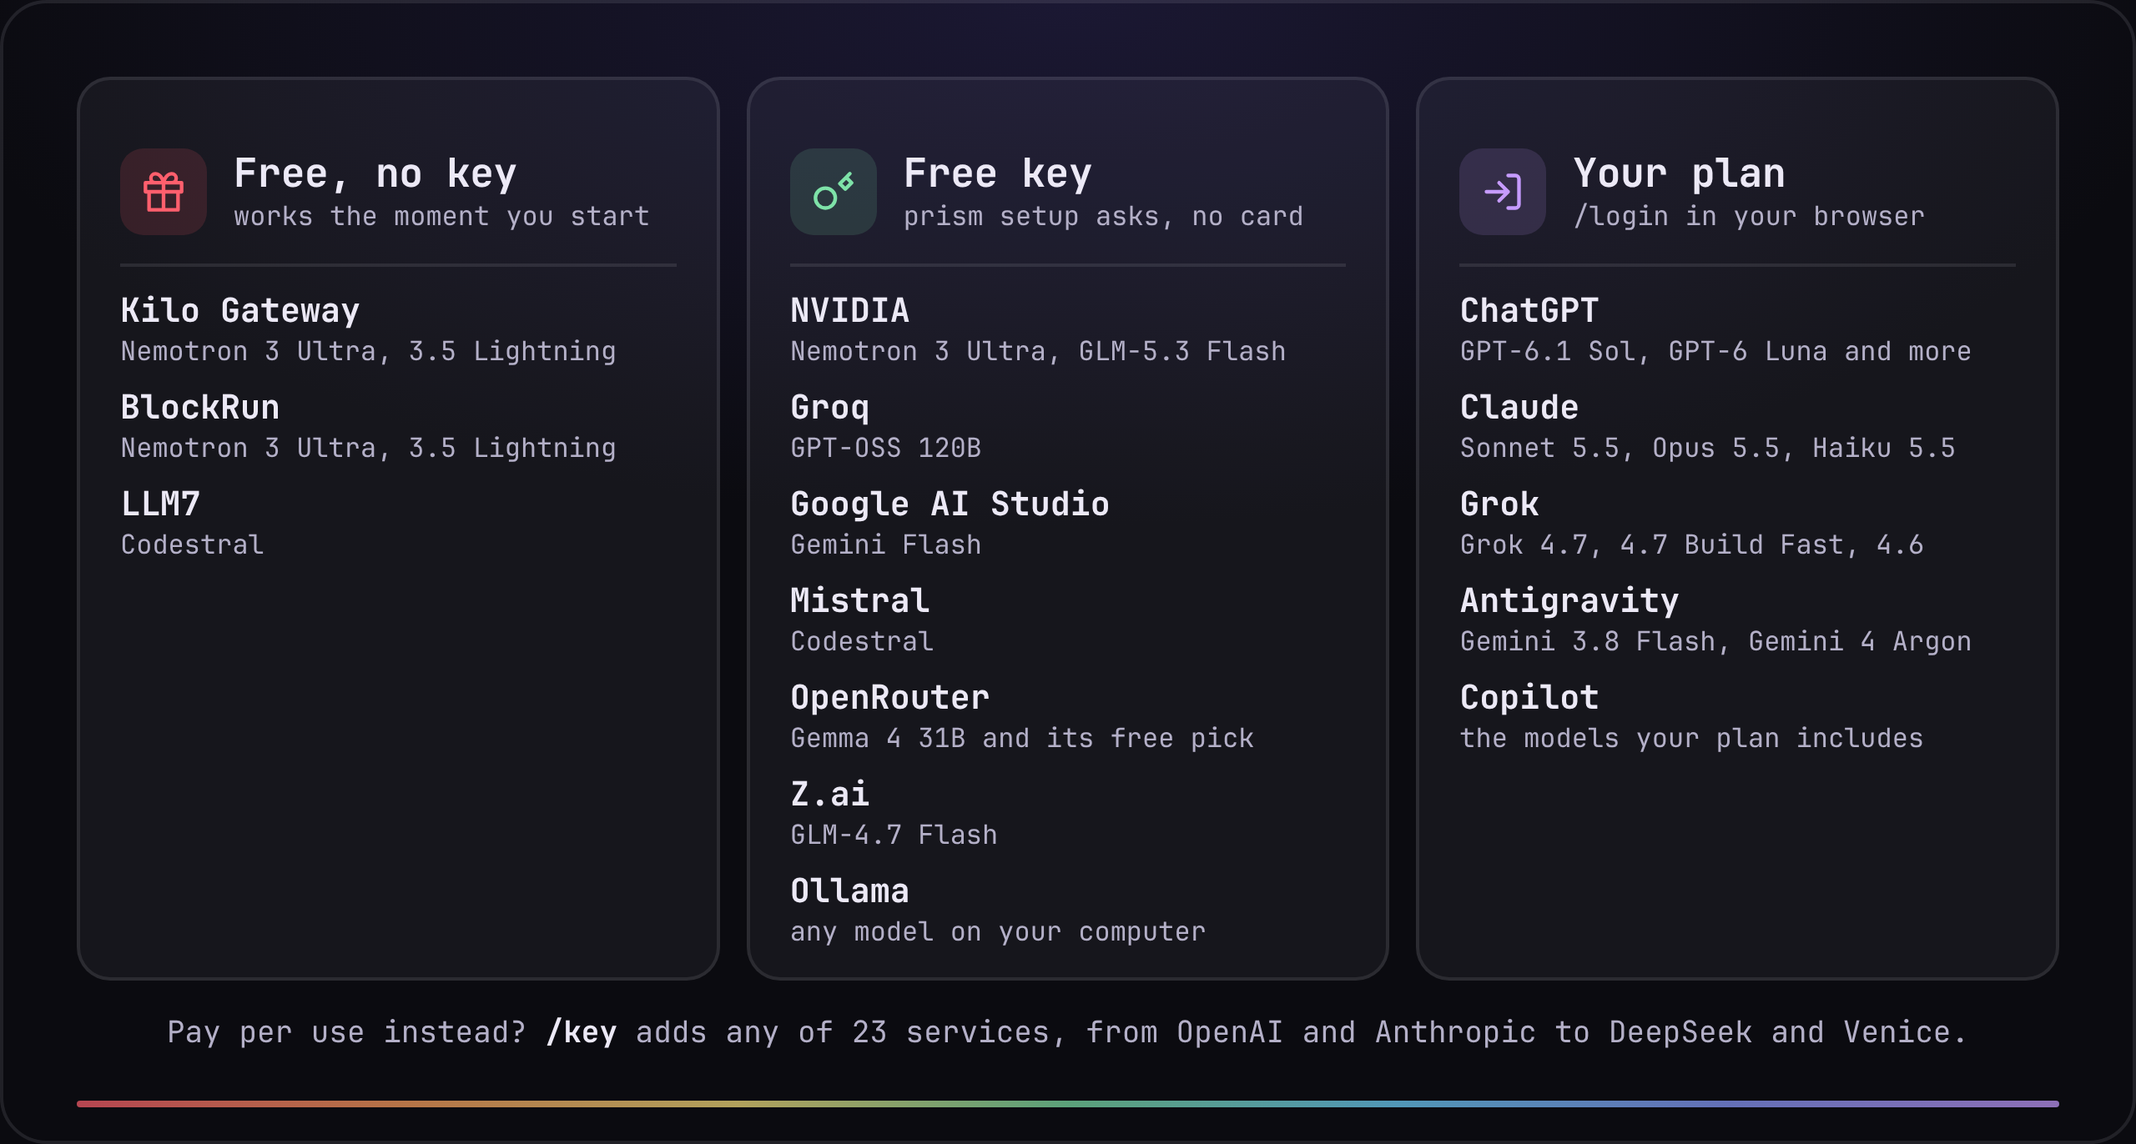
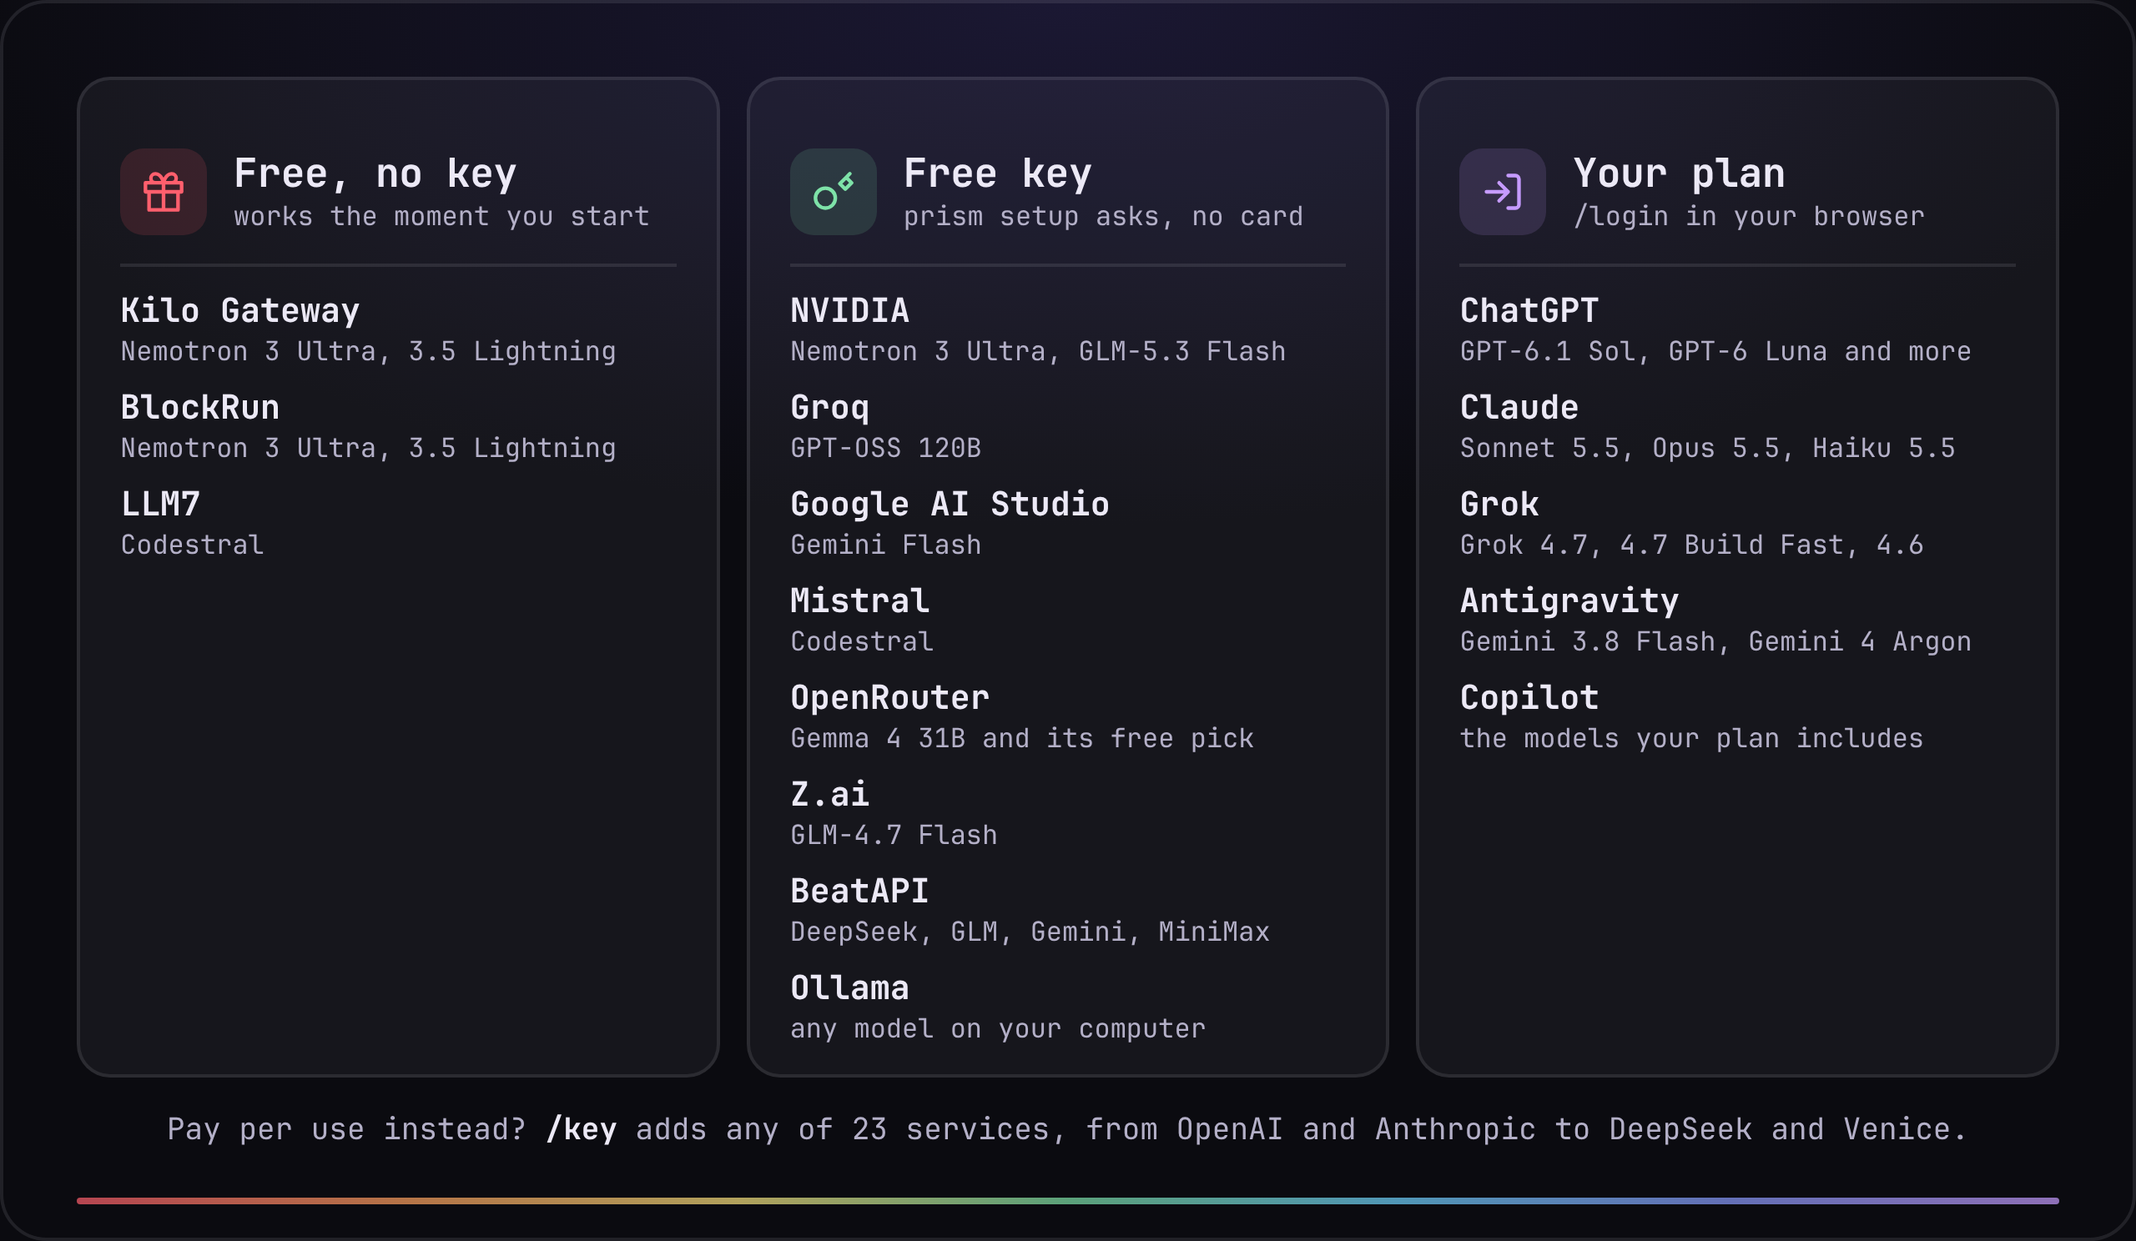
feat(router): add BeatAPI as a free key
- four free BeatAPI models join auto
- prism setup and /key beatapi add the key
- OpenRouter free keys are checked through /key
- README, guide, changelog and models card list BeatAPI

diff --git a/docs/graphics/models-dark.html b/docs/graphics/models-dark.html
@@ -4,7 +4,7 @@
 <style>
 * { box-sizing: border-box; margin: 0; }
 html { background: transparent; }
-body { position: relative; width: 1280px; height: 686px; overflow: hidden; border-radius: 28px; border: 2px solid rgba(236,233,246,.10);
+body { position: relative; width: 1280px; height: 744px; overflow: hidden; border-radius: 28px; border: 2px solid rgba(236,233,246,.10);
   background: radial-gradient(900px 420px at 50% 0%, #1b1833, #0b0b10 75%); color: #ece9f6;
   font: 500 24px/1.2 'JetBrains Mono', 'JetBrainsMono Nerd Font', 'JetBrainsMono NF', ui-monospace, monospace; }
 .px { display: grid; gap: 2px; position: absolute; }
@@ -20,7 +20,7 @@ body { padding: 44px; }
   background: linear-gradient(90deg, #ff5f6d, #ffa25f, #f9e27d, #7ee2a8, #6fd3ff, #8a9bff, #c69bff); opacity: 0.7; }
 
 .grid { display: grid; grid-template-columns: repeat(3, minmax(0, 1fr)); gap: 16px; align-items: start; }
-.col { padding: 24px 24px 12px; height: 542px; }
+.col { padding: 24px 24px 12px; height: 600px; }
 .head { display: flex; gap: 16px; align-items: center; height: 88px; border-bottom: 2px solid rgba(236,233,246,.10); margin-bottom: 8px; }
 .head .text { font-size: 16px; line-height: 22px; }
 .m { height: 58px; display: flex; flex-direction: column; justify-content: center; }
@@ -30,6 +30,6 @@ body { padding: 44px; }
 .foot b { color: #ece9f6; }
 </style>
 <body>
-<div class="grid"><div class="tile col"><div class="head"><div class="ico" style="background:rgba(255,95,109,0.14)"><svg width="26" height="26" viewBox="0 0 24 24" fill="none" stroke="#ff5f6d" stroke-width="2" stroke-linecap="round" stroke-linejoin="round"><path d="M20 12v10H4V12M2 7h20v5H2zM12 22V7M12 7H7.5a2.5 2.5 0 0 1 0-5C11 2 12 7 12 7zM12 7h4.5a2.5 2.5 0 0 0 0-5C13 2 12 7 12 7z"/></svg></div><div><div class="title">Free, no key</div><div class="text">works the moment you start</div></div></div><div class="m"><b>Kilo Gateway</b><span>Nemotron 3 Ultra, 3.5 Lightning</span></div><div class="m"><b>BlockRun</b><span>Nemotron 3 Ultra, 3.5 Lightning</span></div><div class="m"><b>LLM7</b><span>Codestral</span></div></div><div class="tile col"><div class="head"><div class="ico" style="background:rgba(126,226,168,0.14)"><svg width="26" height="26" viewBox="0 0 24 24" fill="none" stroke="#7ee2a8" stroke-width="2" stroke-linecap="round" stroke-linejoin="round"><path d="M15.5 7.5 19 4m2-2-2 2 3 3-3.5 3.5-3-3M11.39 11.61a5.5 5.5 0 1 1-7.78 7.78 5.5 5.5 0 0 1 7.78-7.78z"/></svg></div><div><div class="title">Free key</div><div class="text">prism setup asks, no card</div></div></div><div class="m"><b>NVIDIA</b><span>Nemotron 3 Ultra, GLM-5.3 Flash</span></div><div class="m"><b>Groq</b><span>GPT-OSS 120B</span></div><div class="m"><b>Google AI Studio</b><span>Gemini Flash</span></div><div class="m"><b>Mistral</b><span>Codestral</span></div><div class="m"><b>OpenRouter</b><span>Gemma 4 31B and its free pick</span></div><div class="m"><b>Z.ai</b><span>GLM-4.7 Flash</span></div><div class="m"><b>Ollama</b><span>any model on your computer</span></div></div><div class="tile col"><div class="head"><div class="ico" style="background:rgba(198,155,255,0.14)"><svg width="26" height="26" viewBox="0 0 24 24" fill="none" stroke="#c69bff" stroke-width="2" stroke-linecap="round" stroke-linejoin="round"><path d="M15 3h4a2 2 0 0 1 2 2v14a2 2 0 0 1-2 2h-4M10 17l5-5-5-5M15 12H3"/></svg></div><div><div class="title">Your plan</div><div class="text">/login in your browser</div></div></div><div class="m"><b>ChatGPT</b><span>GPT-6.1 Sol, GPT-6 Luna and more</span></div><div class="m"><b>Claude</b><span>Sonnet 5.5, Opus 5.5, Haiku 5.5</span></div><div class="m"><b>Grok</b><span>Grok 4.7, 4.7 Build Fast, 4.6</span></div><div class="m"><b>Antigravity</b><span>Gemini 3.8 Flash, Gemini 4 Argon</span></div><div class="m"><b>Copilot</b><span>the models your plan includes</span></div></div></div><div class="foot">Pay per use instead? <b>/key</b> adds any of 23 services, from OpenAI and Anthropic to DeepSeek and Venice.</div>
+<div class="grid"><div class="tile col"><div class="head"><div class="ico" style="background:rgba(255,95,109,0.14)"><svg width="26" height="26" viewBox="0 0 24 24" fill="none" stroke="#ff5f6d" stroke-width="2" stroke-linecap="round" stroke-linejoin="round"><path d="M20 12v10H4V12M2 7h20v5H2zM12 22V7M12 7H7.5a2.5 2.5 0 0 1 0-5C11 2 12 7 12 7zM12 7h4.5a2.5 2.5 0 0 0 0-5C13 2 12 7 12 7z"/></svg></div><div><div class="title">Free, no key</div><div class="text">works the moment you start</div></div></div><div class="m"><b>Kilo Gateway</b><span>Nemotron 3 Ultra, 3.5 Lightning</span></div><div class="m"><b>BlockRun</b><span>Nemotron 3 Ultra, 3.5 Lightning</span></div><div class="m"><b>LLM7</b><span>Codestral</span></div></div><div class="tile col"><div class="head"><div class="ico" style="background:rgba(126,226,168,0.14)"><svg width="26" height="26" viewBox="0 0 24 24" fill="none" stroke="#7ee2a8" stroke-width="2" stroke-linecap="round" stroke-linejoin="round"><path d="M15.5 7.5 19 4m2-2-2 2 3 3-3.5 3.5-3-3M11.39 11.61a5.5 5.5 0 1 1-7.78 7.78 5.5 5.5 0 0 1 7.78-7.78z"/></svg></div><div><div class="title">Free key</div><div class="text">prism setup asks, no card</div></div></div><div class="m"><b>NVIDIA</b><span>Nemotron 3 Ultra, GLM-5.3 Flash</span></div><div class="m"><b>Groq</b><span>GPT-OSS 120B</span></div><div class="m"><b>Google AI Studio</b><span>Gemini Flash</span></div><div class="m"><b>Mistral</b><span>Codestral</span></div><div class="m"><b>OpenRouter</b><span>Gemma 4 31B and its free pick</span></div><div class="m"><b>Z.ai</b><span>GLM-4.7 Flash</span></div><div class="m"><b>BeatAPI</b><span>DeepSeek, GLM, Gemini, MiniMax</span></div><div class="m"><b>Ollama</b><span>any model on your computer</span></div></div><div class="tile col"><div class="head"><div class="ico" style="background:rgba(198,155,255,0.14)"><svg width="26" height="26" viewBox="0 0 24 24" fill="none" stroke="#c69bff" stroke-width="2" stroke-linecap="round" stroke-linejoin="round"><path d="M15 3h4a2 2 0 0 1 2 2v14a2 2 0 0 1-2 2h-4M10 17l5-5-5-5M15 12H3"/></svg></div><div><div class="title">Your plan</div><div class="text">/login in your browser</div></div></div><div class="m"><b>ChatGPT</b><span>GPT-6.1 Sol, GPT-6 Luna and more</span></div><div class="m"><b>Claude</b><span>Sonnet 5.5, Opus 5.5, Haiku 5.5</span></div><div class="m"><b>Grok</b><span>Grok 4.7, 4.7 Build Fast, 4.6</span></div><div class="m"><b>Antigravity</b><span>Gemini 3.8 Flash, Gemini 4 Argon</span></div><div class="m"><b>Copilot</b><span>the models your plan includes</span></div></div></div><div class="foot">Pay per use instead? <b>/key</b> adds any of 23 services, from OpenAI and Anthropic to DeepSeek and Venice.</div>
 <div class="beam"></div>
 </body></html>

diff --git a/docs/graphics/models-light.html b/docs/graphics/models-light.html
@@ -4,7 +4,7 @@
 <style>
 * { box-sizing: border-box; margin: 0; }
 html { background: transparent; }
-body { position: relative; width: 1280px; height: 686px; overflow: hidden; border-radius: 28px; border: 2px solid rgba(29,26,46,.12);
+body { position: relative; width: 1280px; height: 744px; overflow: hidden; border-radius: 28px; border: 2px solid rgba(29,26,46,.12);
   background: radial-gradient(900px 420px at 50% 0%, #ece6ff, #fbfaff 75%); color: #1d1a2e;
   font: 500 24px/1.2 'JetBrains Mono', 'JetBrainsMono Nerd Font', 'JetBrainsMono NF', ui-monospace, monospace; }
 .px { display: grid; gap: 2px; position: absolute; }
@@ -20,7 +20,7 @@ body { padding: 44px; }
   background: linear-gradient(90deg, #ff5f6d, #ffa25f, #f9e27d, #7ee2a8, #6fd3ff, #8a9bff, #c69bff); opacity: 0.55; }
 
 .grid { display: grid; grid-template-columns: repeat(3, minmax(0, 1fr)); gap: 16px; align-items: start; }
-.col { padding: 24px 24px 12px; height: 542px; }
+.col { padding: 24px 24px 12px; height: 600px; }
 .head { display: flex; gap: 16px; align-items: center; height: 88px; border-bottom: 2px solid rgba(29,26,46,.12); margin-bottom: 8px; }
 .head .text { font-size: 16px; line-height: 22px; }
 .m { height: 58px; display: flex; flex-direction: column; justify-content: center; }
@@ -30,6 +30,6 @@ body { padding: 44px; }
 .foot b { color: #1d1a2e; }
 </style>
 <body>
-<div class="grid"><div class="tile col"><div class="head"><div class="ico" style="background:rgba(191,76,96,0.16)"><svg width="26" height="26" viewBox="0 0 24 24" fill="none" stroke="#bf4c60" stroke-width="2" stroke-linecap="round" stroke-linejoin="round"><path d="M20 12v10H4V12M2 7h20v5H2zM12 22V7M12 7H7.5a2.5 2.5 0 0 1 0-5C11 2 12 7 12 7zM12 7h4.5a2.5 2.5 0 0 0 0-5C13 2 12 7 12 7z"/></svg></div><div><div class="title">Free, no key</div><div class="text">works the moment you start</div></div></div><div class="m"><b>Kilo Gateway</b><span>Nemotron 3 Ultra, 3.5 Lightning</span></div><div class="m"><b>BlockRun</b><span>Nemotron 3 Ultra, 3.5 Lightning</span></div><div class="m"><b>LLM7</b><span>Codestral</span></div></div><div class="tile col"><div class="head"><div class="ico" style="background:rgba(101,168,137,0.16)"><svg width="26" height="26" viewBox="0 0 24 24" fill="none" stroke="#65a889" stroke-width="2" stroke-linecap="round" stroke-linejoin="round"><path d="M15.5 7.5 19 4m2-2-2 2 3 3-3.5 3.5-3-3M11.39 11.61a5.5 5.5 0 1 1-7.78 7.78 5.5 5.5 0 0 1 7.78-7.78z"/></svg></div><div><div class="title">Free key</div><div class="text">prism setup asks, no card</div></div></div><div class="m"><b>NVIDIA</b><span>Nemotron 3 Ultra, GLM-5.3 Flash</span></div><div class="m"><b>Groq</b><span>GPT-OSS 120B</span></div><div class="m"><b>Google AI Studio</b><span>Gemini Flash</span></div><div class="m"><b>Mistral</b><span>Codestral</span></div><div class="m"><b>OpenRouter</b><span>Gemma 4 31B and its free pick</span></div><div class="m"><b>Z.ai</b><span>GLM-4.7 Flash</span></div><div class="m"><b>Ollama</b><span>any model on your computer</span></div></div><div class="tile col"><div class="head"><div class="ico" style="background:rgba(151,118,198,0.16)"><svg width="26" height="26" viewBox="0 0 24 24" fill="none" stroke="#9776c6" stroke-width="2" stroke-linecap="round" stroke-linejoin="round"><path d="M15 3h4a2 2 0 0 1 2 2v14a2 2 0 0 1-2 2h-4M10 17l5-5-5-5M15 12H3"/></svg></div><div><div class="title">Your plan</div><div class="text">/login in your browser</div></div></div><div class="m"><b>ChatGPT</b><span>GPT-6.1 Sol, GPT-6 Luna and more</span></div><div class="m"><b>Claude</b><span>Sonnet 5.5, Opus 5.5, Haiku 5.5</span></div><div class="m"><b>Grok</b><span>Grok 4.7, 4.7 Build Fast, 4.6</span></div><div class="m"><b>Antigravity</b><span>Gemini 3.8 Flash, Gemini 4 Argon</span></div><div class="m"><b>Copilot</b><span>the models your plan includes</span></div></div></div><div class="foot">Pay per use instead? <b>/key</b> adds any of 23 services, from OpenAI and Anthropic to DeepSeek and Venice.</div>
+<div class="grid"><div class="tile col"><div class="head"><div class="ico" style="background:rgba(191,76,96,0.16)"><svg width="26" height="26" viewBox="0 0 24 24" fill="none" stroke="#bf4c60" stroke-width="2" stroke-linecap="round" stroke-linejoin="round"><path d="M20 12v10H4V12M2 7h20v5H2zM12 22V7M12 7H7.5a2.5 2.5 0 0 1 0-5C11 2 12 7 12 7zM12 7h4.5a2.5 2.5 0 0 0 0-5C13 2 12 7 12 7z"/></svg></div><div><div class="title">Free, no key</div><div class="text">works the moment you start</div></div></div><div class="m"><b>Kilo Gateway</b><span>Nemotron 3 Ultra, 3.5 Lightning</span></div><div class="m"><b>BlockRun</b><span>Nemotron 3 Ultra, 3.5 Lightning</span></div><div class="m"><b>LLM7</b><span>Codestral</span></div></div><div class="tile col"><div class="head"><div class="ico" style="background:rgba(101,168,137,0.16)"><svg width="26" height="26" viewBox="0 0 24 24" fill="none" stroke="#65a889" stroke-width="2" stroke-linecap="round" stroke-linejoin="round"><path d="M15.5 7.5 19 4m2-2-2 2 3 3-3.5 3.5-3-3M11.39 11.61a5.5 5.5 0 1 1-7.78 7.78 5.5 5.5 0 0 1 7.78-7.78z"/></svg></div><div><div class="title">Free key</div><div class="text">prism setup asks, no card</div></div></div><div class="m"><b>NVIDIA</b><span>Nemotron 3 Ultra, GLM-5.3 Flash</span></div><div class="m"><b>Groq</b><span>GPT-OSS 120B</span></div><div class="m"><b>Google AI Studio</b><span>Gemini Flash</span></div><div class="m"><b>Mistral</b><span>Codestral</span></div><div class="m"><b>OpenRouter</b><span>Gemma 4 31B and its free pick</span></div><div class="m"><b>Z.ai</b><span>GLM-4.7 Flash</span></div><div class="m"><b>BeatAPI</b><span>DeepSeek, GLM, Gemini, MiniMax</span></div><div class="m"><b>Ollama</b><span>any model on your computer</span></div></div><div class="tile col"><div class="head"><div class="ico" style="background:rgba(151,118,198,0.16)"><svg width="26" height="26" viewBox="0 0 24 24" fill="none" stroke="#9776c6" stroke-width="2" stroke-linecap="round" stroke-linejoin="round"><path d="M15 3h4a2 2 0 0 1 2 2v14a2 2 0 0 1-2 2h-4M10 17l5-5-5-5M15 12H3"/></svg></div><div><div class="title">Your plan</div><div class="text">/login in your browser</div></div></div><div class="m"><b>ChatGPT</b><span>GPT-6.1 Sol, GPT-6 Luna and more</span></div><div class="m"><b>Claude</b><span>Sonnet 5.5, Opus 5.5, Haiku 5.5</span></div><div class="m"><b>Grok</b><span>Grok 4.7, 4.7 Build Fast, 4.6</span></div><div class="m"><b>Antigravity</b><span>Gemini 3.8 Flash, Gemini 4 Argon</span></div><div class="m"><b>Copilot</b><span>the models your plan includes</span></div></div></div><div class="foot">Pay per use instead? <b>/key</b> adds any of 23 services, from OpenAI and Anthropic to DeepSeek and Venice.</div>
 <div class="beam"></div>
 </body></html>

diff --git a/bench/cards.py b/bench/cards.py
@@ -60,6 +60,7 @@ MODELS = [
         ("Mistral", "Codestral"),
         ("OpenRouter", "Gemma 4 31B and its free pick"),
         ("Z.ai", "GLM-4.7 Flash"),
+        ("BeatAPI", "DeepSeek, GLM, Gemini, MiniMax"),
         ("Ollama", "any model on your computer"),
     ]),
     ("login", "Your plan", "/login in your browser", [
@@ -150,7 +151,7 @@ def platforms(theme):
 
 def models(theme):
     t = THEMES[theme]
-    height = 44 * 2 + 112 + 7 * 58 + 24 + 56
+    height = 44 * 2 + 112 + 8 * 58 + 24 + 56
     cols = []
     for i, (name, title, text, rows) in enumerate(MODELS):
         color = accent(t, i * 3, 7)
@@ -159,7 +160,7 @@ def models(theme):
                     f'<div><div class="title">{esc(title)}</div><div class="text">{esc(text)}</div></div></div>{items}</div>')
     css = card_css(t, height) + f"""
 .grid {{ display: grid; grid-template-columns: repeat(3, minmax(0, 1fr)); gap: 16px; align-items: start; }}
-.col {{ padding: 24px 24px 12px; height: {112 + 7 * 58 + 24}px; }}
+.col {{ padding: 24px 24px 12px; height: {112 + 8 * 58 + 24}px; }}
 .head {{ display: flex; gap: 16px; align-items: center; height: 88px; border-bottom: 2px solid {t["line"]}; margin-bottom: 8px; }}
 .head .text {{ font-size: 16px; line-height: 22px; }}
 .m {{ height: 58px; display: flex; flex-direction: column; justify-content: center; }}

diff --git a/README.md b/README.md
@@ -102,7 +102,7 @@ cd prism
 
 <picture>
   <source media="(prefers-color-scheme: light)" srcset="docs/models-light.png">
-  <img src="docs/models-dark.png" alt="Free with no key: Kilo Gateway, BlockRun, LLM7. Free with a free key: NVIDIA, Groq, Google AI Studio, Mistral, OpenRouter, Z.ai, Ollama. Your plan through /login: ChatGPT, Claude, Grok, Antigravity, Copilot. /key adds 23 pay-per-use services." width="100%">
+  <img src="docs/models-dark.png" alt="Free with no key: Kilo Gateway, BlockRun, LLM7. Free with a free key: NVIDIA, Groq, Google AI Studio, Mistral, OpenRouter, Z.ai, BeatAPI, Ollama. Your plan through /login: ChatGPT, Claude, Grok, Antigravity, Copilot. /key adds 23 pay-per-use services." width="100%">
 </picture>
 
 <details>
@@ -128,6 +128,7 @@ cd prism
 | Mistral | Codestral (latest) |
 | OpenRouter | Gemma 4 31B, OpenRouter's free pick (50 requests a day) |
 | Z.ai | GLM-4.7 Flash |
+| BeatAPI | DeepSeek V4.1 Flash, GLM-5.3 Flash, Gemini 3.8 Flash, MiniMax M3.1 Flash (1 request a minute until you top up) |
 | Ollama | any model on your own computer |
 
 ### Sign in with a plan
@@ -200,7 +201,7 @@ Bug reports, platform reports and new free providers are welcome. See [CONTRIBUT
 
 Built with [Empryo](https://empryo.com). Ideas from [OpenCode](https://opencode.ai), [Crush](https://github.com/charmbracelet/crush), [jcode](https://jcode.sh), [Claude Code](https://www.anthropic.com/claude-code) and [Codex](https://github.com/openai/codex); measured against [Aider](https://aider.chat) and [mini-swe-agent](https://github.com/SWE-agent/mini-swe-agent). The look is built on [Charm](https://charm.land)'s [Bubble Tea](https://github.com/charmbracelet/bubbletea) and inspired by [Omarchy](https://omarchy.org).
 
-Free thanks to [NVIDIA](https://build.nvidia.com), [Groq](https://groq.com), [Mistral](https://mistral.ai), [Google Gemini](https://ai.google.dev), [OpenRouter](https://openrouter.ai), [Kilo](https://kilo.ai), [BlockRun](https://blockrun.ai), [LLM7](https://llm7.io), [Z.ai](https://z.ai) and [Ollama](https://ollama.com). The beam is named after the [Last Prism](https://terraria.wiki.gg/wiki/Last_Prism) from [Terraria](https://terraria.org); the art is original.
+Free thanks to [NVIDIA](https://build.nvidia.com), [Groq](https://groq.com), [Mistral](https://mistral.ai), [Google Gemini](https://ai.google.dev), [OpenRouter](https://openrouter.ai), [BeatAPI](https://beatapi.io), [Kilo](https://kilo.ai), [BlockRun](https://blockrun.ai), [LLM7](https://llm7.io), [Z.ai](https://z.ai) and [Ollama](https://ollama.com). The beam is named after the [Last Prism](https://terraria.wiki.gg/wiki/Last_Prism) from [Terraria](https://terraria.org); the art is original.
 
 ## License
 

diff --git a/CHANGELOG.md b/CHANGELOG.md
@@ -2,8 +2,13 @@
 
 ## Unreleased
 
+### New
+
+- BeatAPI is a new free key: `prism setup` or `/key beatapi <secret>` adds its free DeepSeek V4.1, GLM-5.3, Gemini 3.8 and MiniMax M3.1 Flash models. A new BeatAPI account allows 1 request a minute until its first top-up.
+
 ### Changed
 
+- `/key` now checks free keys with their service before saving them. A key that Groq, Mistral, OpenRouter, Z.ai or BeatAPI refuses is not saved, so a typo shows up at once. OpenRouter paid keys are checked too.
 - macOS with Docker Desktop is now tested and marked as working in the README and setup guide.
 
 ## 0.4.1 (2026-10-31)

diff --git a/docs/GUIDE.md b/docs/GUIDE.md
@@ -38,6 +38,7 @@ Want it faster and smarter? `prism setup` walks you through free keys from AI co
 | Mistral | Codestral | free |
 | OpenRouter | free Gemma and others (50 requests a day) | free |
 | Z.ai | GLM-4.7 Flash | free |
+| BeatAPI | DeepSeek, GLM, Gemini and MiniMax Flash (1 request a minute until you top up) | free |
 | Ollama | any model on your own computer | none |
 
 Local models on your own computer (Ollama, LM Studio) cost you nothing, so `auto` can use them too.
